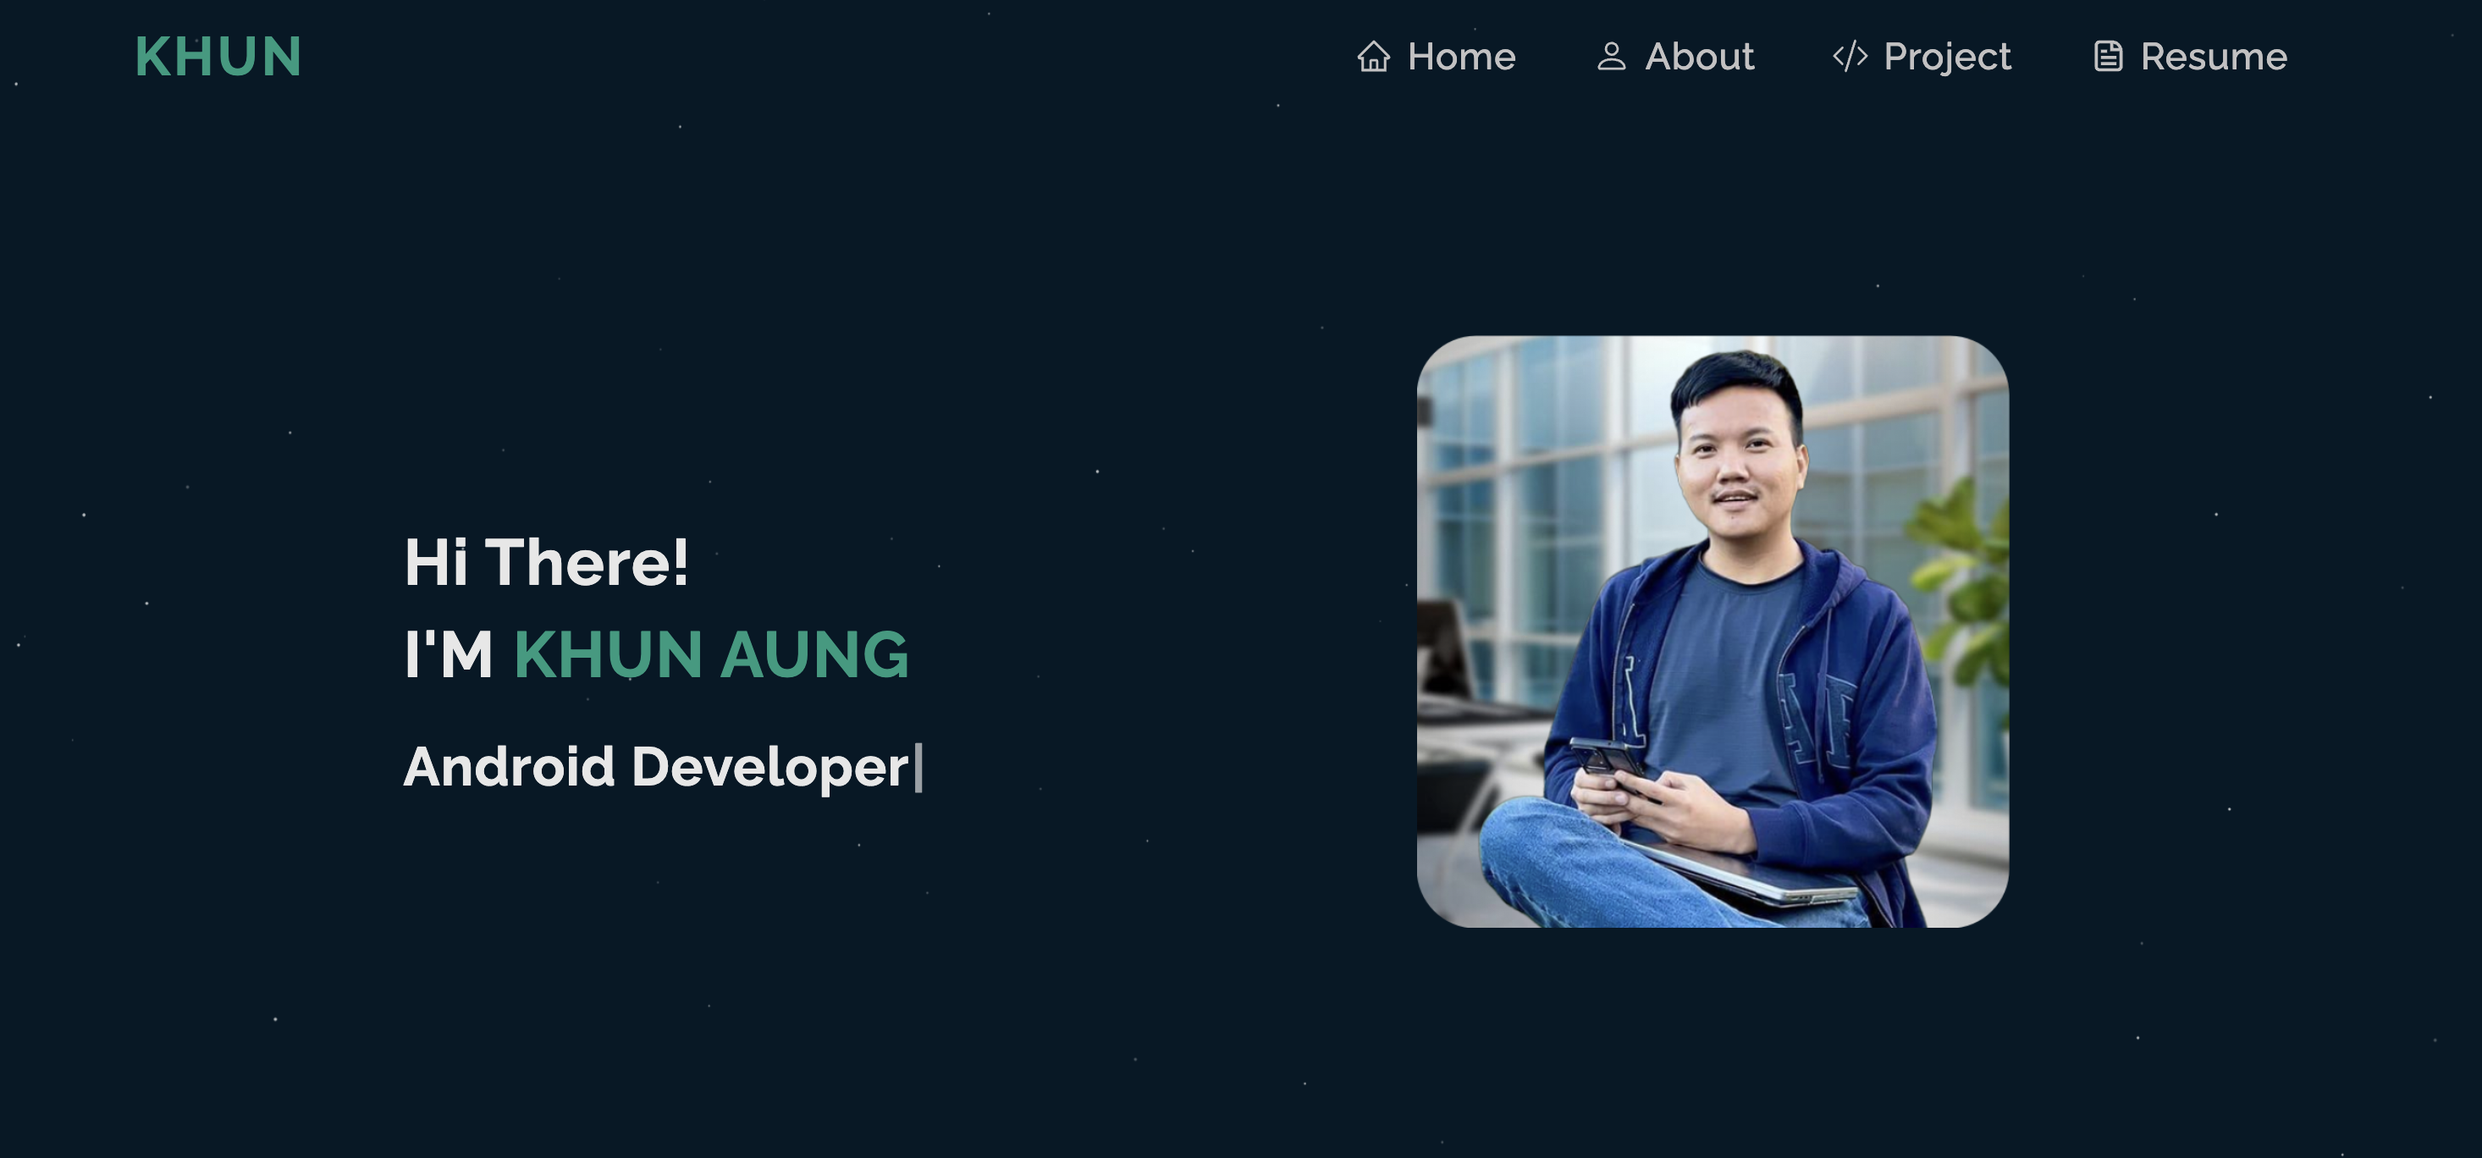
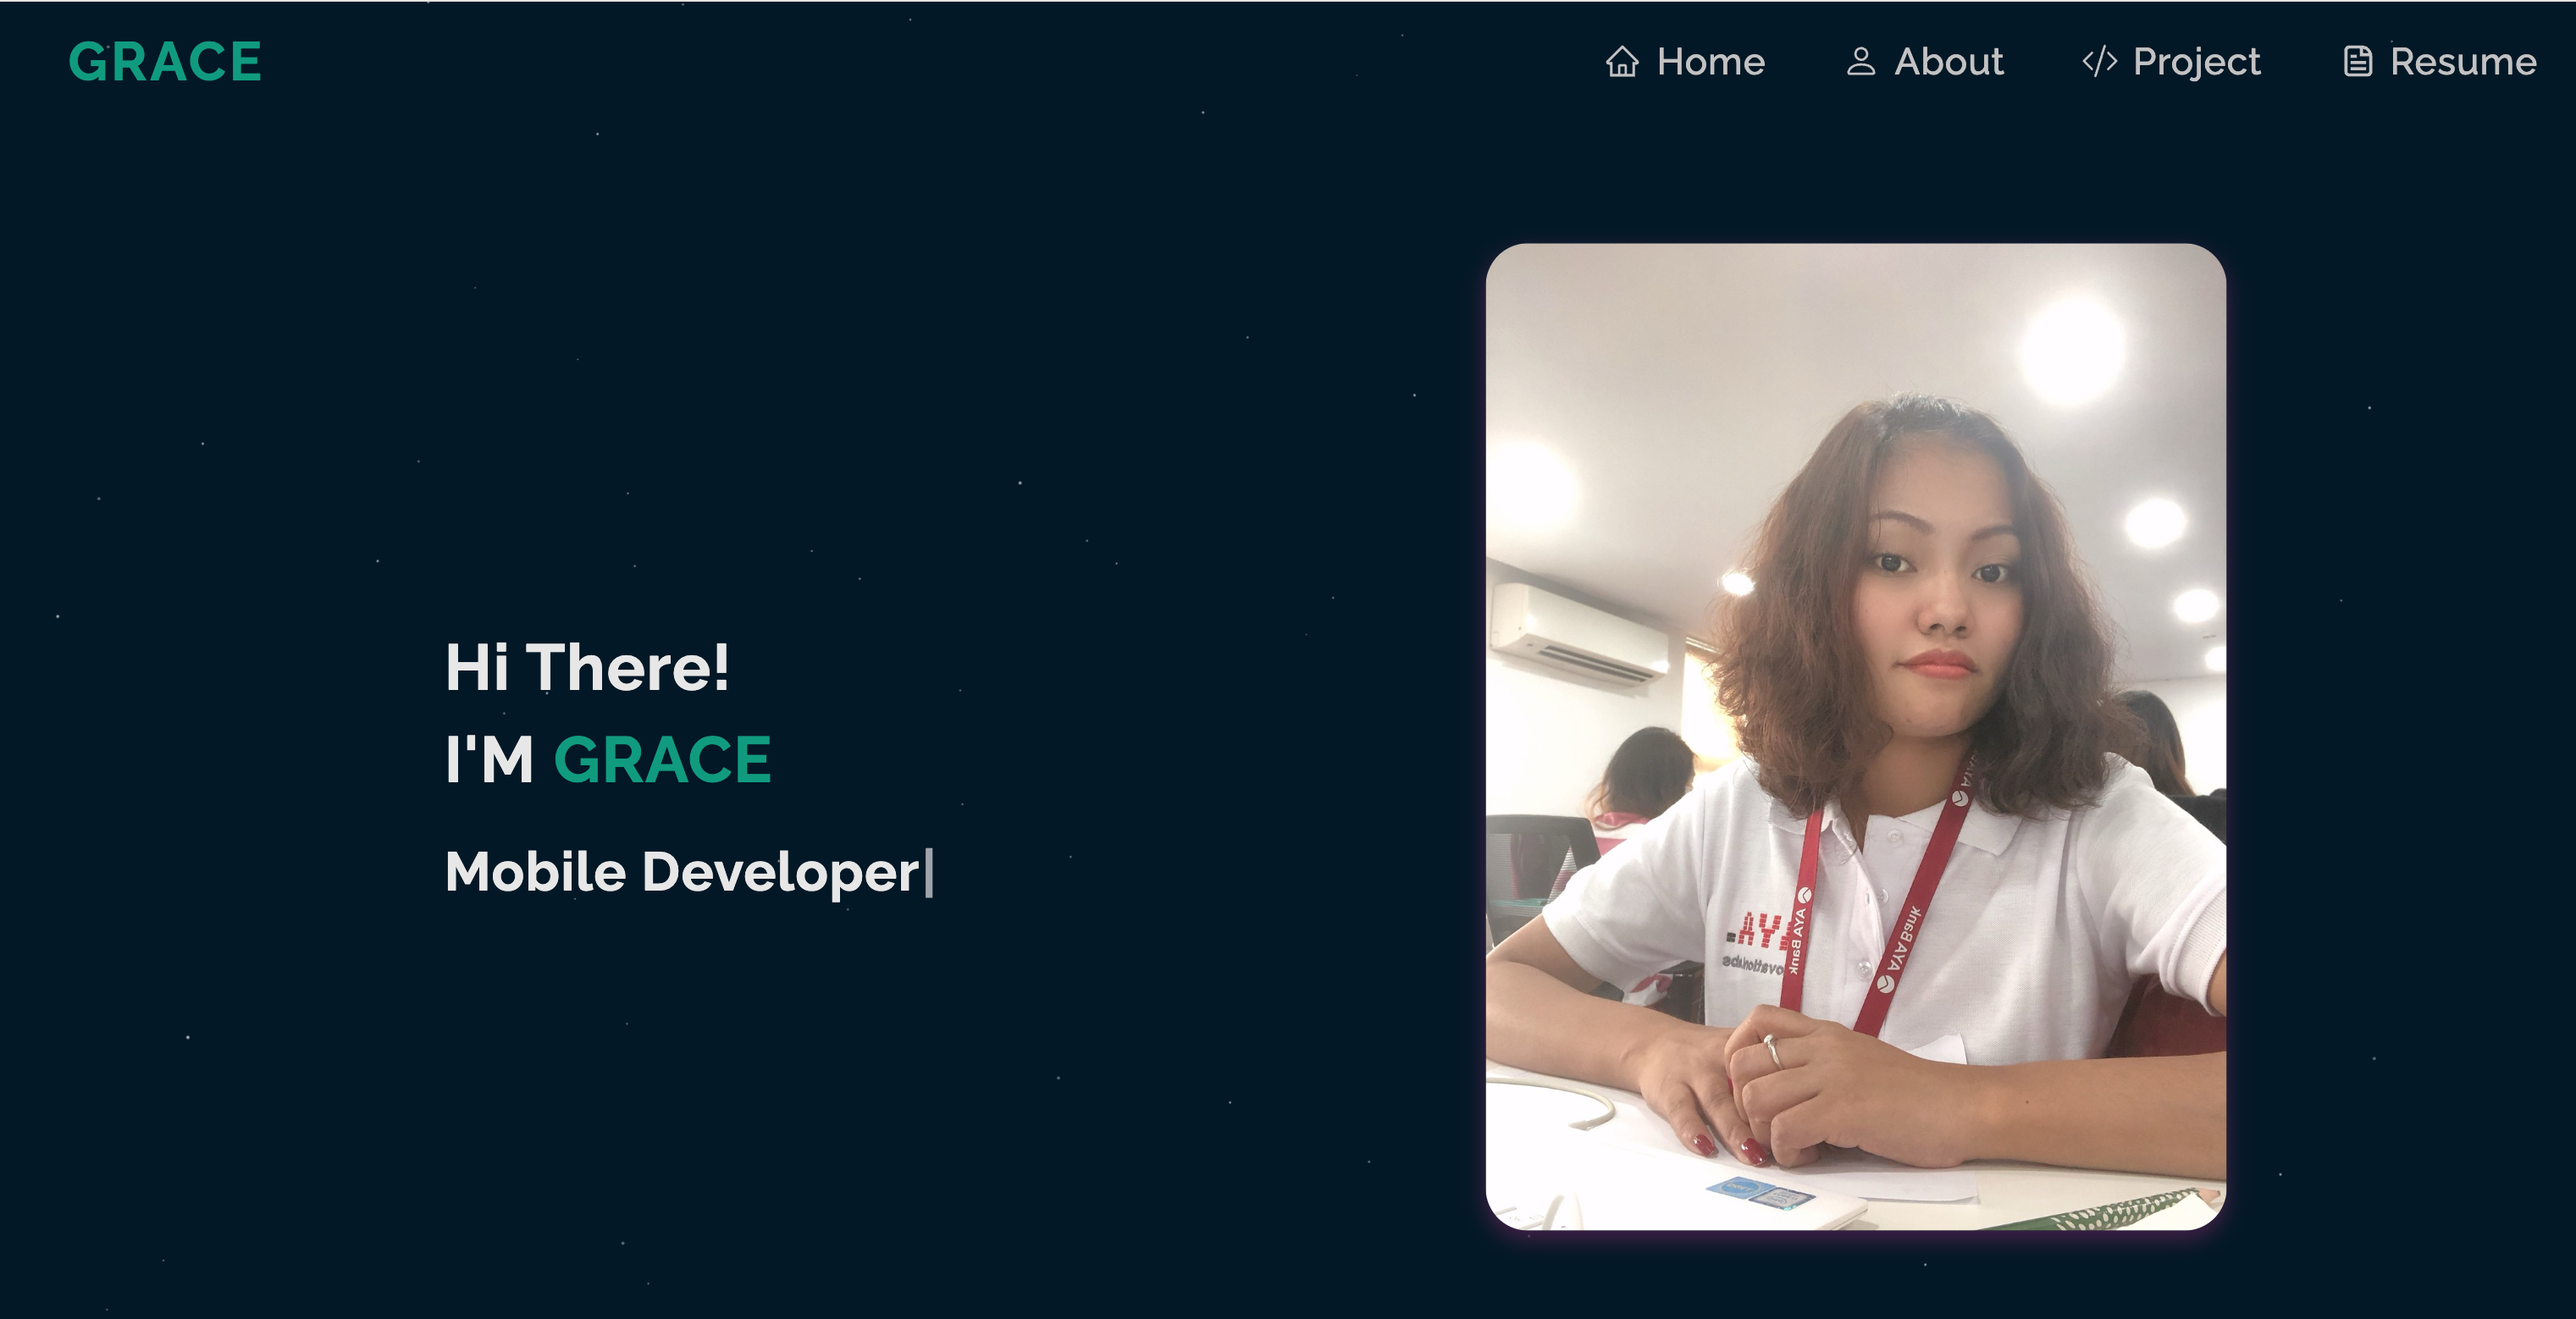
change photo

diff --git a/src/Components/Home.js b/src/Components/Home.js
@@ -3,7 +3,7 @@ import Lottie from  "lottie-react";
 import Typed from "./Typed.js";
 import Skills from './Skills.js';
 import Tilt from 'react-parallax-tilt';
-import Khun from '../images/khun.png'
+import Grace from '../images/grace.jpg'
 import CoderGuy from '../LottieFiles/coder-man2.json'
 import CoderBoy from '../LottieFiles/coderboy.json'
 import { ImPointRight } from "react-icons/im";
@@ -18,7 +18,7 @@ const Home = () => {
           <h1>I'M <b>GRACE</b></h1>
           <Typed/>   
         </div>
-      <img className='avatarBox' src={Khun} alt=""/>
+      <img className='avatarBox' src={Grace} alt=""/>
       </div>
 
       <div className='AboutPage'>

diff --git a/README.md b/README.md
@@ -1,4 +1,4 @@
 
 GRACE PORTFOLIO WEB PAGE
 
-<!-- ![ScreenShot](/public/website_img.png) -->
+![ScreenShot](/public/website_img.png)
